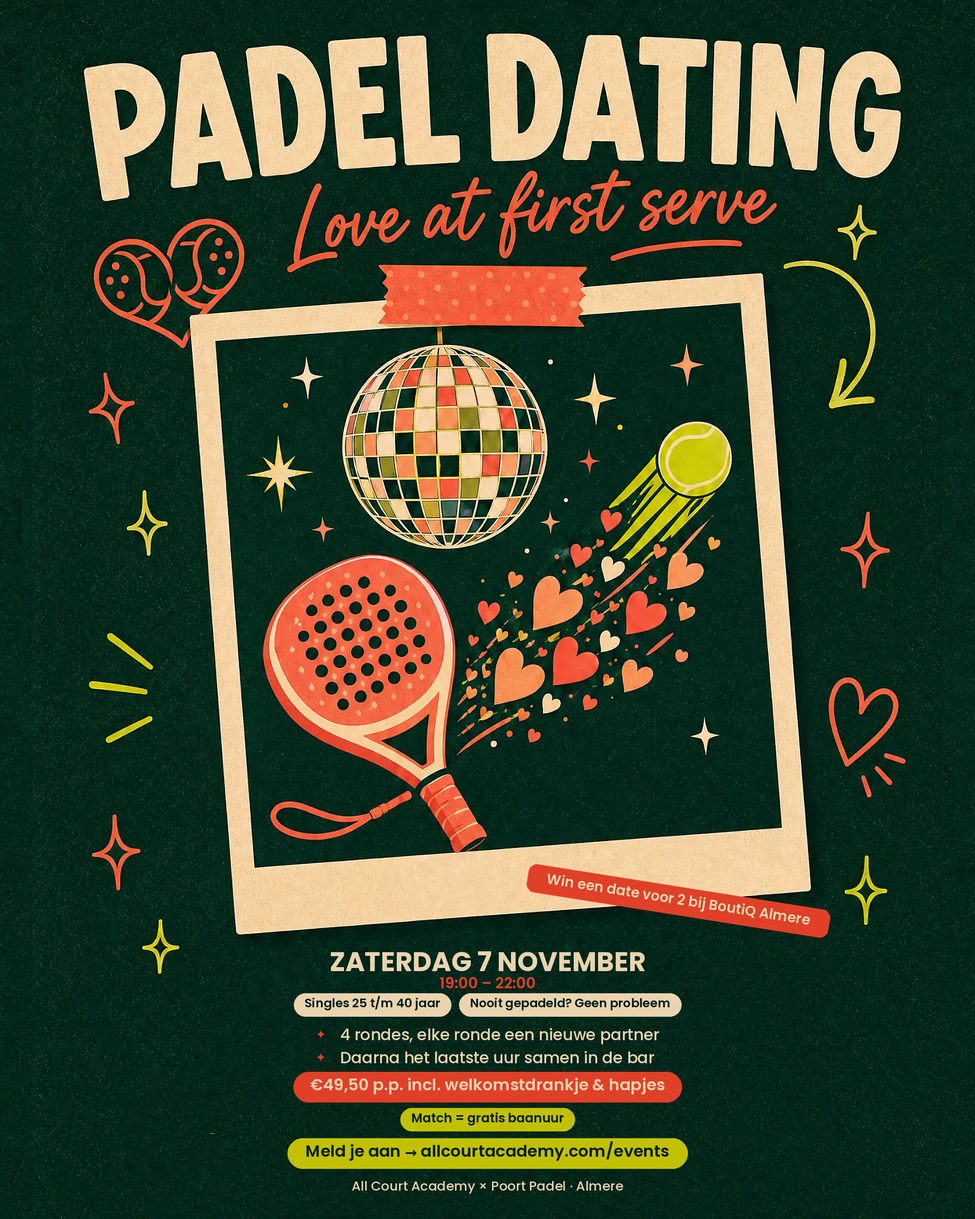
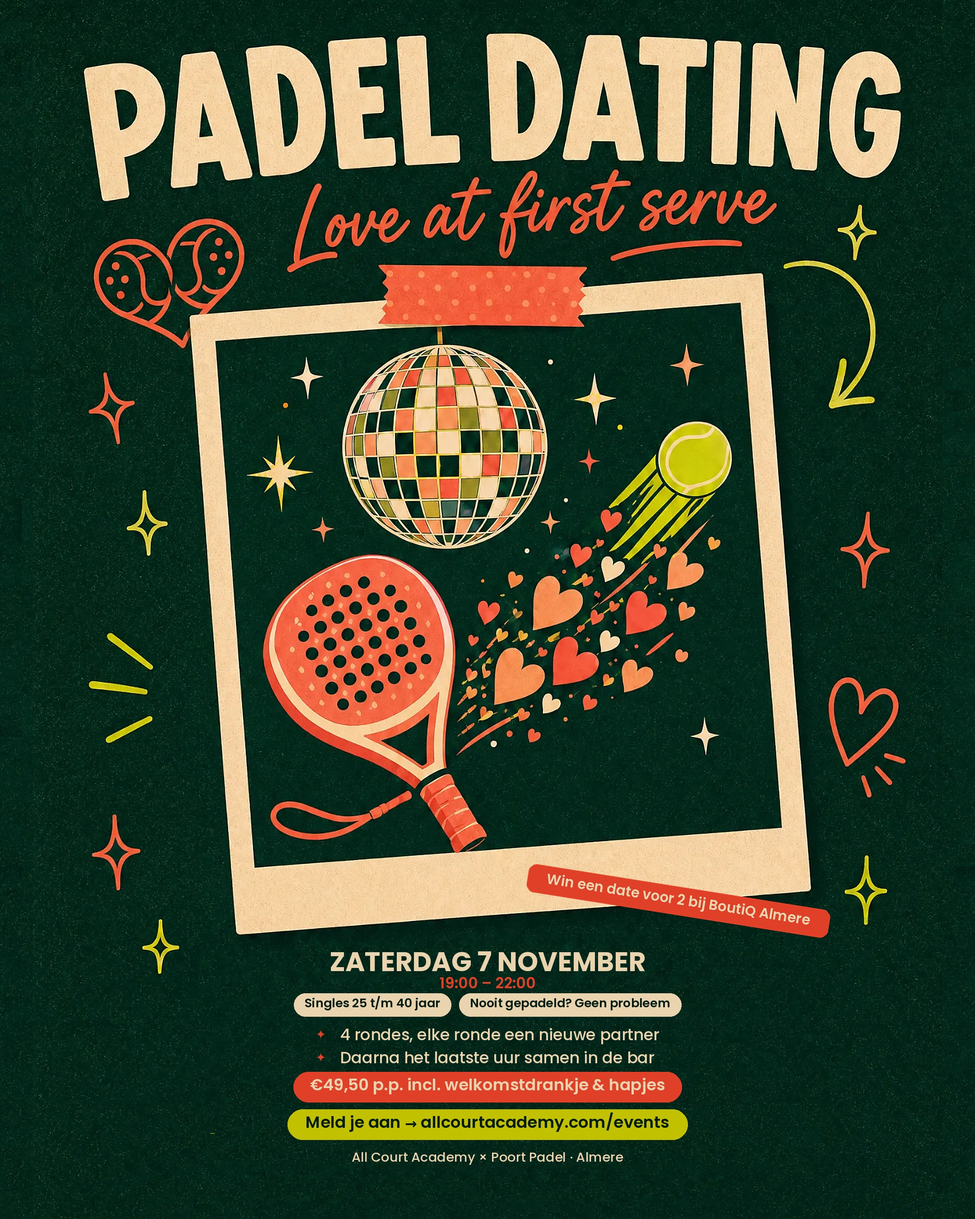
Padel Dating: lime-tag 'Match = gratis baanuur' uit feed en story gehaald
Feed 4:5 en story 9:16 opnieuw geëxporteerd zonder de match-beloning;
build_poster.py bijgewerkt en versie 16 in de poster-README beschreven.

Claude-Session: https://claude.ai/code/session_01XvRhSgAuPfNbbAXDCSXsBF

Changed region(s): [[0.2792, 0.9022, 0.7134, 0.9956]]

diff --git a/events/posters/final/build_poster.py b/events/posters/final/build_poster.py
@@ -142,9 +142,9 @@ if __name__=='__main__':
         img.save(f'{name}.png'); print(name,img.size,'text ends at',yend,'of',H)
     # Feed 4:5: scale by height, side margins filled with grain
     W,H=2160,2700; S=H/OH; aw=int(OW*S); ax=(W-aw)//2
-    img,yend=compose(W,H,S,ax,0,spec_F,'€49,50 p.p. incl. welkomstdrankje & hapjes','Match = gratis baanuur','Meld je aan → allcourtacademy.com/events','All Court Academy × Poort Padel · Almere',True)
+    img,yend=compose(W,H,S,ax,0,spec_F,'€49,50 p.p. incl. welkomstdrankje & hapjes',None,'Meld je aan → allcourtacademy.com/events','All Court Academy × Poort Padel · Almere',True)
     img.save('ig-feed-4x5.png'); print('feed',img.size,yend)
     # Story 9:16: scale by width, top/bottom filled with grain, text inside the safe zone
     W,H=2160,3840; S=W/OW; ah=int(OH*S); ay=(H-ah)//2
-    img,yend=compose(W,H,S,0,ay,spec_B,'€49,50 p.p. incl. welkomstdrankje & hapjes','Match = gratis baanuur','Meld je aan → link in bio','All Court Academy × Poort Padel',True)
+    img,yend=compose(W,H,S,0,ay,spec_B,'€49,50 p.p. incl. welkomstdrankje & hapjes',None,'Meld je aan → link in bio','All Court Academy × Poort Padel',True)
     img.save('ig-story-9x16.png'); print('story',img.size,yend,'safe until',int(H*0.88))

diff --git a/events/posters/README.md b/events/posters/README.md
@@ -420,3 +420,7 @@ Korrel (20 september 2026, laatste fix): het vlak onder de polaroid wordt nu gev
 Lars zag een tint- en korrelverschil tussen het beeld en het vlak eronder. Nieuwe opbouw in `events/posters/final/build_poster.py`: het beeld blijft in zijn eigen 3:4-verhouding (2986 × 4000 na 2× opschalen), de oude tekst, pills en footer worden in het beeld zelf gewist (samenhangende vormen in het midden onder de polaroid; de sterretjes aan de zijkanten blijven staan), en elk gewist pixel wordt gevuld met korrel uit dezelfde hoogte van het beeld. Er is dus geen apart vlak en geen naad meer. De nieuwe tekst staat op dezelfde plek als de oude. Feed 4:5 en story 9:16 werken hetzelfde; de randen die daar bijkomen worden gevuld met korrel uit de dichtstbijzijnde rand van het beeld.
 
 Bestanden: `padel-dating-poster-A-print-boutiq-30x40cm.pdf` (+ `.jpg`), `padel-dating-poster-A-print-zonder-boutiq-30x40cm.pdf` (+ `.jpg`), `padel-dating-ig-feed-4x5.jpg`, `padel-dating-ig-story-9x16.jpg`. Print: 30 × 40 cm op 253 dpi; A3 met kleine rand kan ook.
+
+### Versie 16: "Match = gratis baanuur" overal weg (20 september 2026)
+
+Lars schrapte de match-beloning (geen gratis baanuur bij een match). De lime-tag "Match = gratis baanuur" is uit de feed 4:5 en de story 9:16 gehaald; de poster had die regel al niet meer. Tekst feed en story nu: Zaterdag 7 november · 19:00 – 22:00 / chips Singles 25 t/m 40 jaar · Nooit gepadeld? Geen probleem / 4 rondes, elke ronde een nieuwe partner / Daarna het laatste uur samen in de bar / €49,50 p.p. incl. welkomstdrankje & hapjes / Meld je aan → allcourtacademy.com/events (story: link in bio) / All Court Academy × Poort Padel · Almere. Ook draaiboek, overzicht, captions en prijscalculator zijn hierop aangepast. De oudere versiebeschrijvingen hierboven zijn historie.
